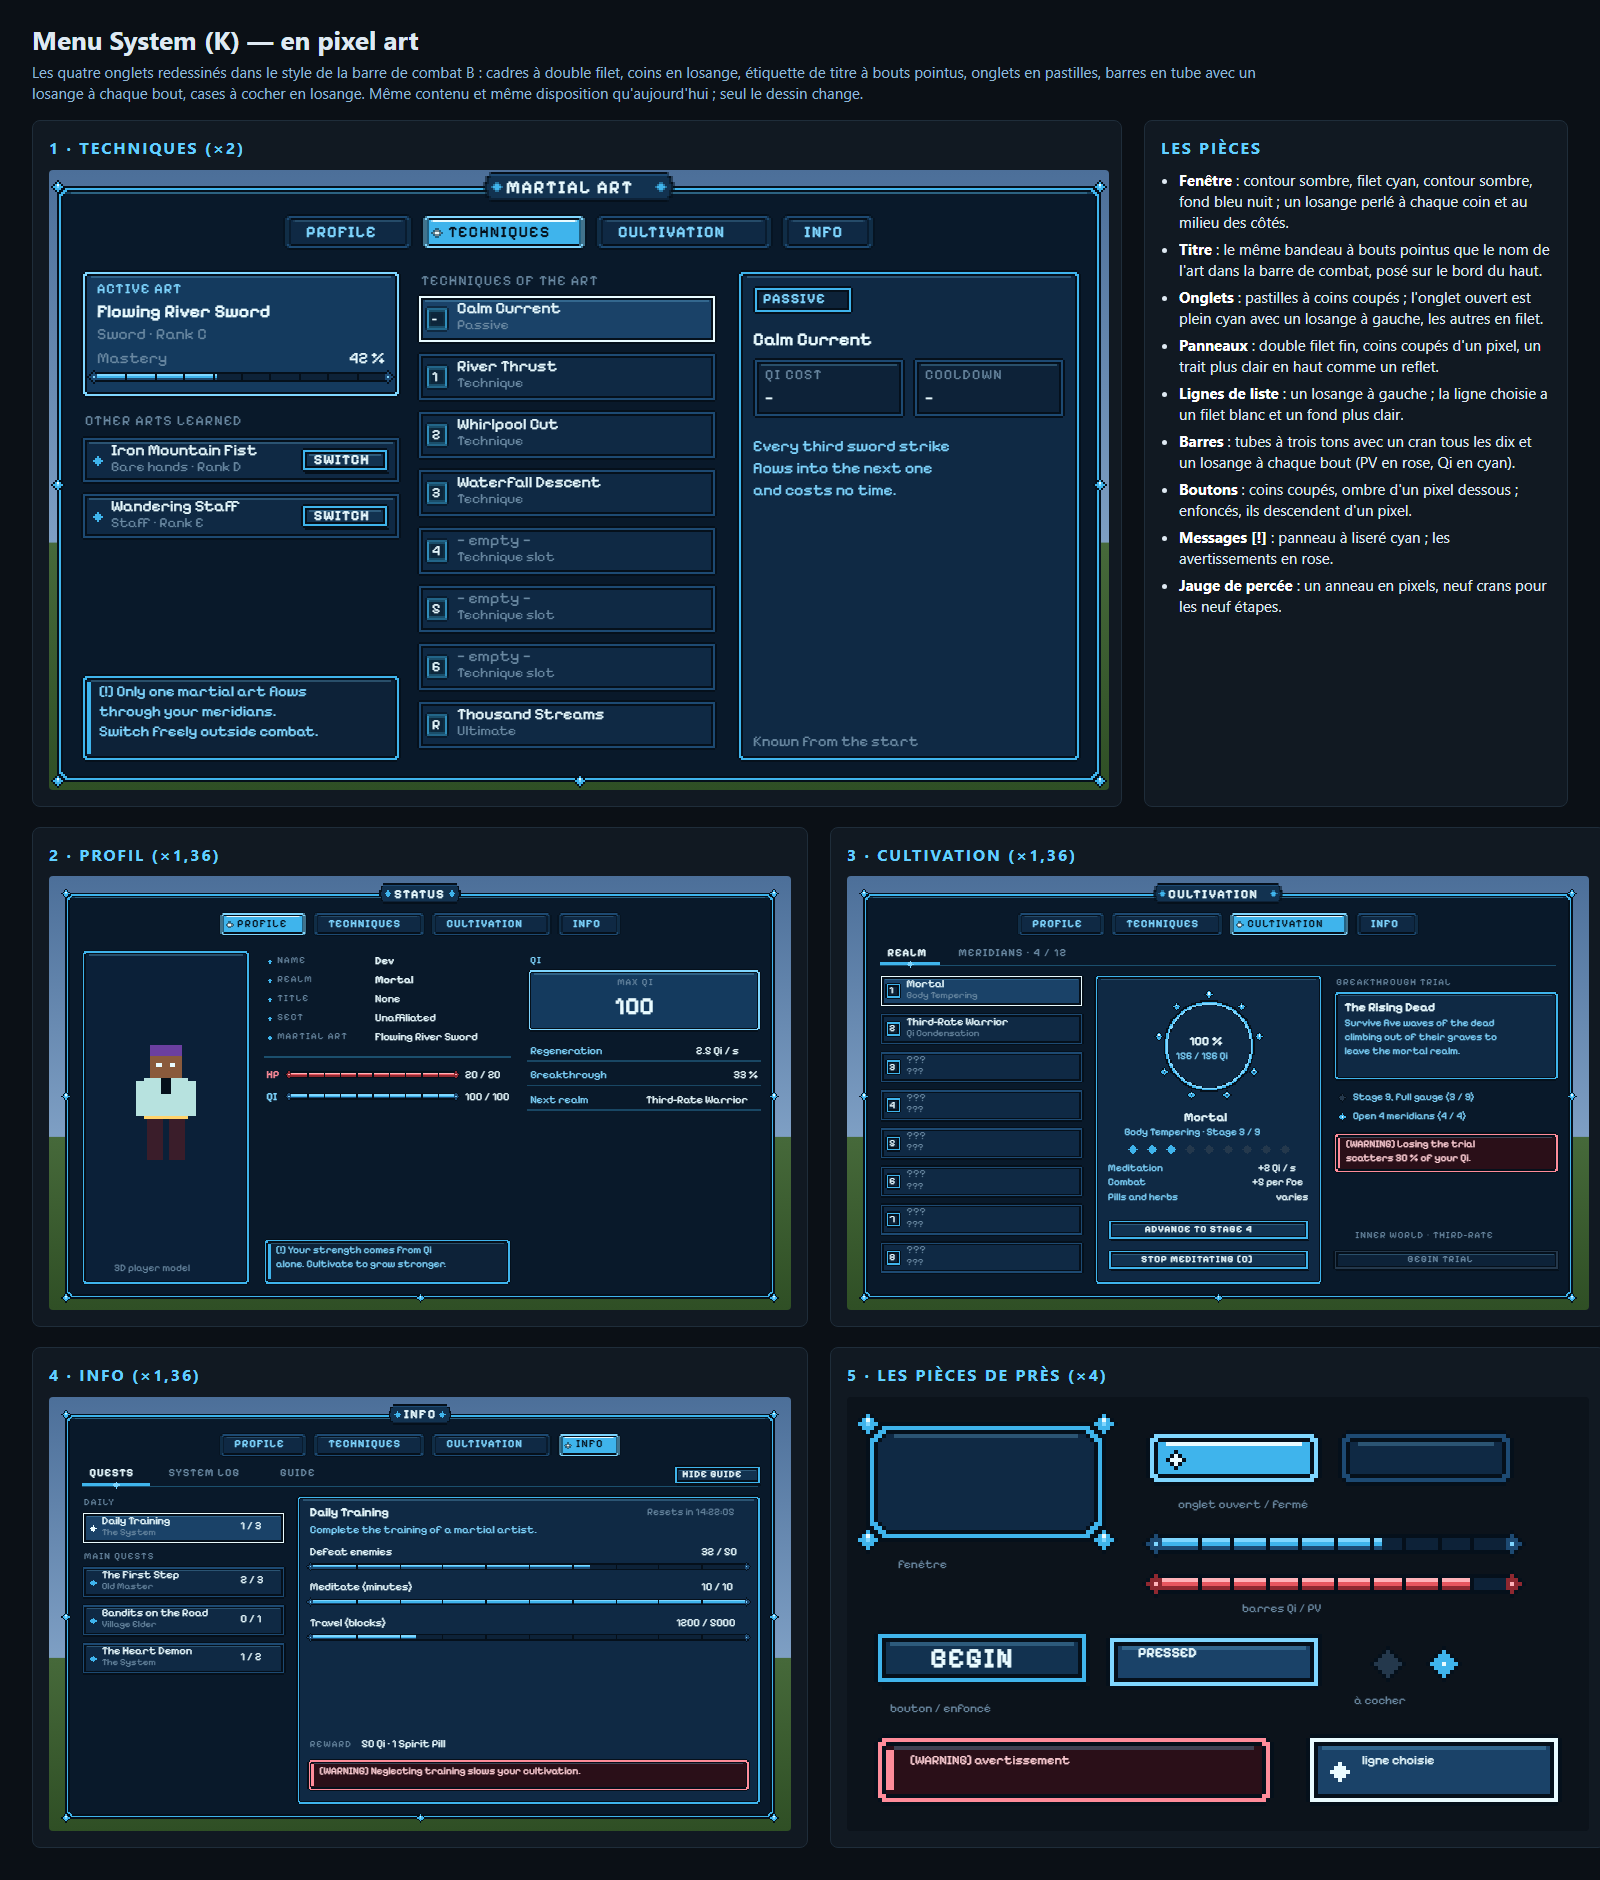
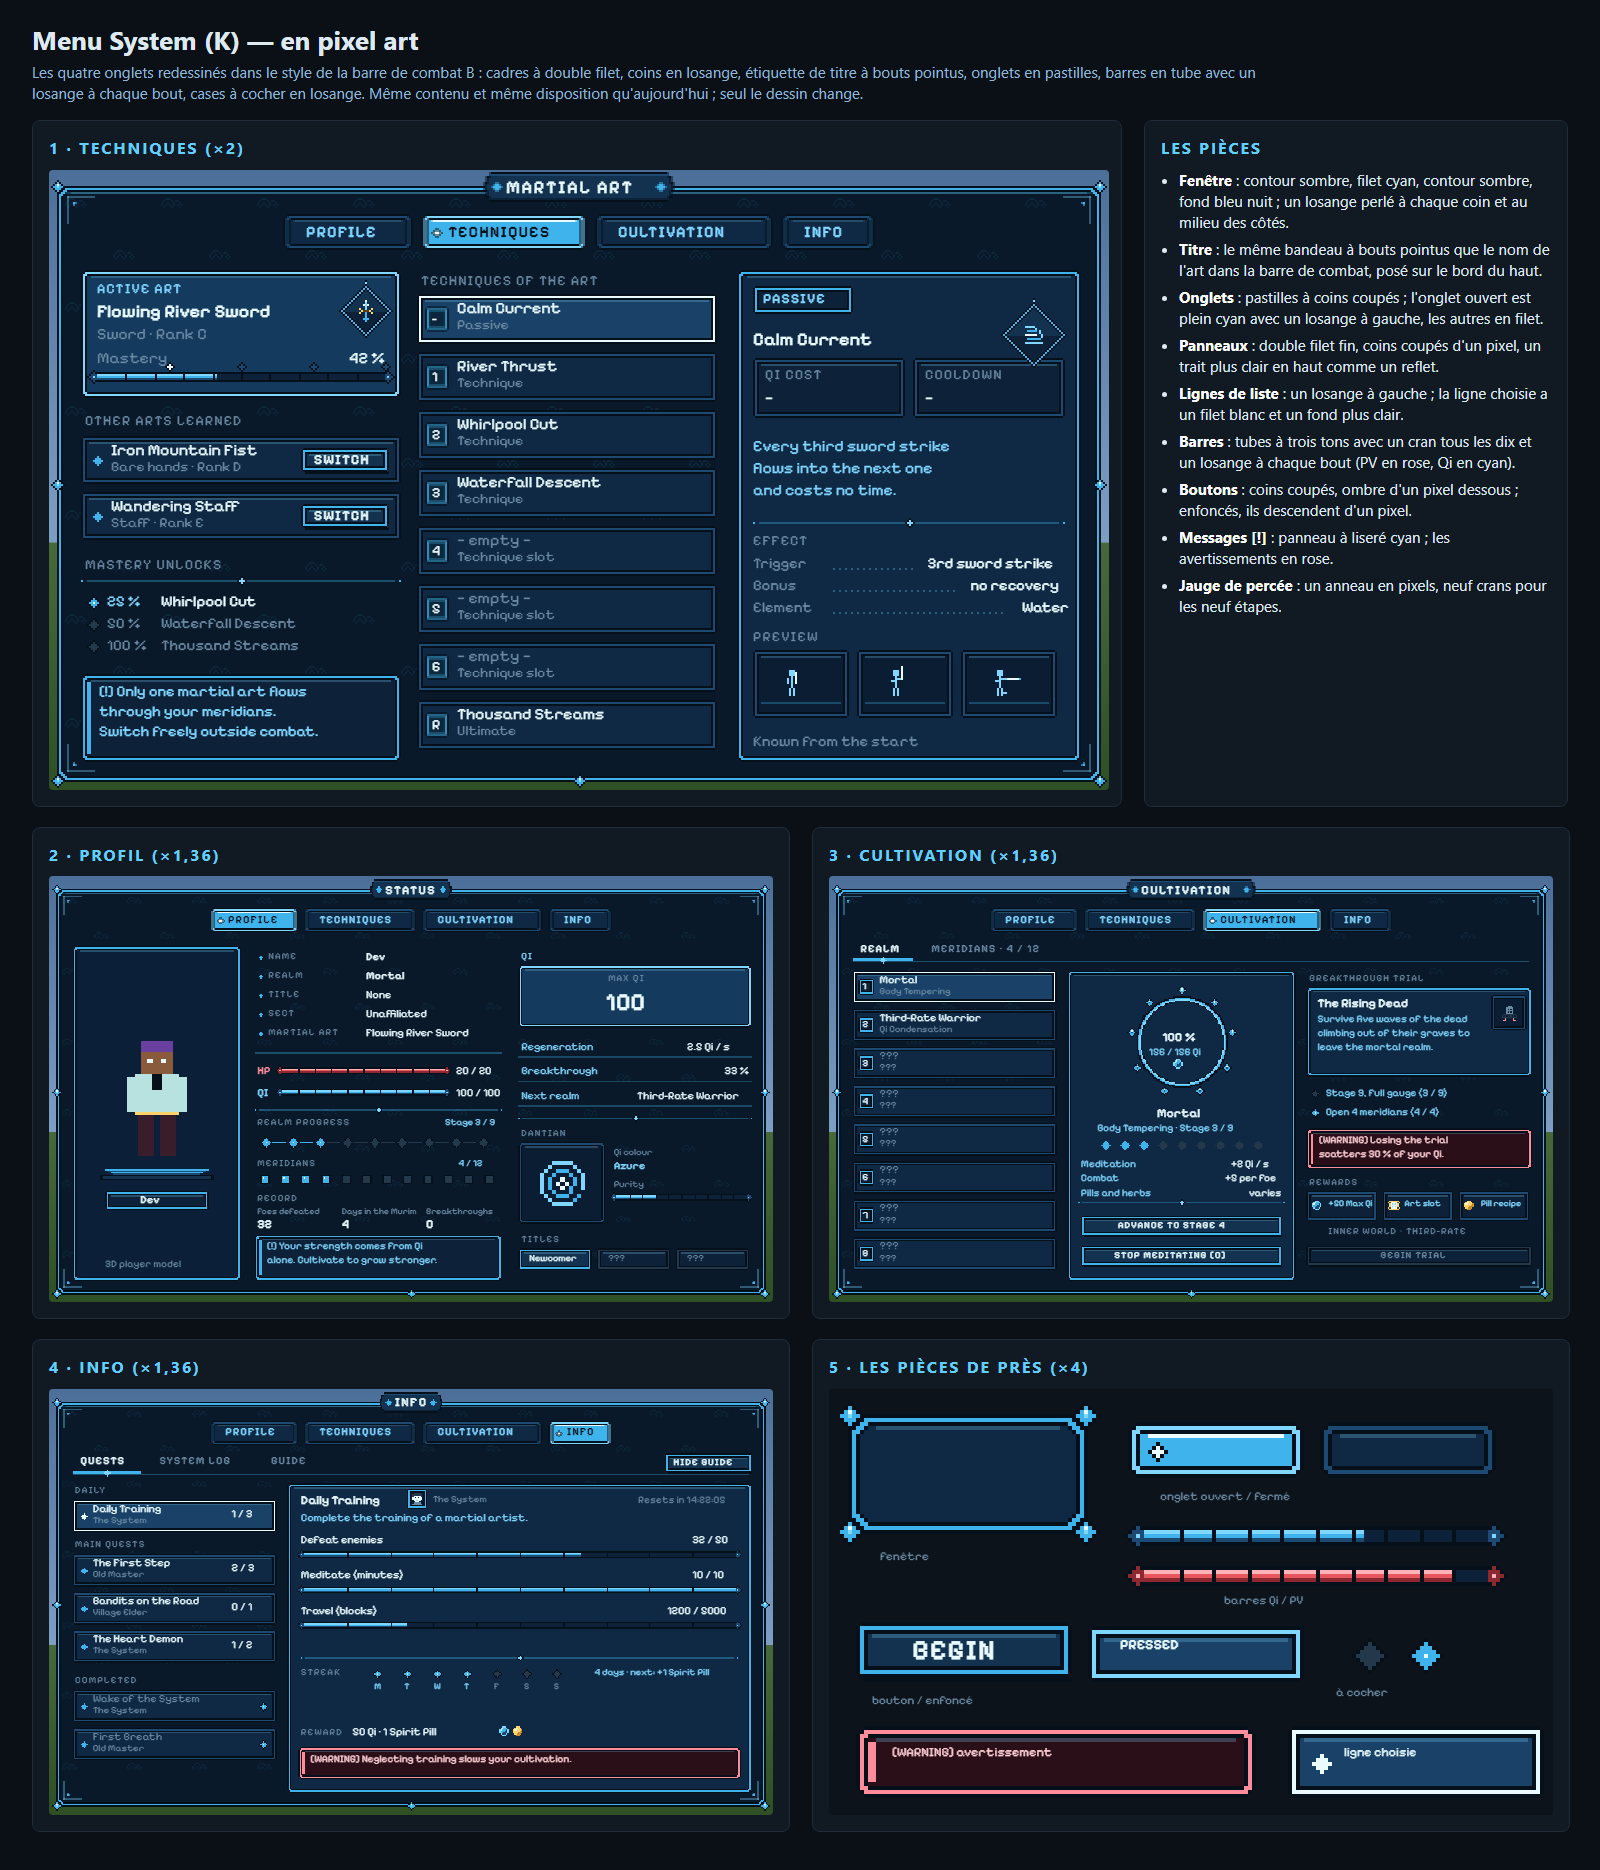
Fill the pixel-art System menu board: clouds, filigree, crests, mastery unlocks, effects, preview, realm ladder, dantian, rewards, streak

diff --git a/docs/gui/boards/system-gui-pixel.html b/docs/gui/boards/system-gui-pixel.html
@@ -35,12 +35,12 @@ ul { margin: 0; padding-left: 18px; } li { margin: 0 0 6px; } b { color: #fff; }
 </div>
 
 <div class="row" style="grid-template-columns: 1fr 1fr">
-  <div class="card"><h2>2 · Profil (×1,36)</h2><div class="scene" id="profile" style="width:742px;height:434px"></div></div>
-  <div class="card"><h2>3 · Cultivation (×1,36)</h2><div class="scene" id="cultivation" style="width:742px;height:434px"></div></div>
+  <div class="card"><h2>2 · Profil (×1,36)</h2><div class="scene" id="profile" style="width:724px;height:426px"></div></div>
+  <div class="card"><h2>3 · Cultivation (×1,36)</h2><div class="scene" id="cultivation" style="width:724px;height:426px"></div></div>
 </div>
 <div class="row" style="grid-template-columns: 1fr 1fr">
-  <div class="card"><h2>4 · Info (×1,36)</h2><div class="scene" id="info" style="width:742px;height:434px"></div></div>
-  <div class="card"><h2>5 · Les pièces de près (×4)</h2><div class="scene" id="parts" style="width:742px;height:434px;background:#0c131b"></div></div>
+  <div class="card"><h2>4 · Info (×1,36)</h2><div class="scene" id="info" style="width:724px;height:426px"></div></div>
+  <div class="card"><h2>5 · Les pièces de près (×4)</h2><div class="scene" id="parts" style="width:724px;height:426px;background:#0c131b"></div></div>
 </div>
 
 <script>
@@ -79,8 +79,13 @@ function frame(g, x, y, w, h, o = {}) {
 function windowFrame(page, title) {
   const {g, T} = page;
   frame(g, 4, 8, W - 8, H - 12, {cut: 4, fill: 'rgba(10,26,44,.94)'});
-  // Inner second line, faint.
+  // Inner second line, faint; auspicious clouds in the background; filigree in the corners.
   cutRect(g, 7, 11, W - 14, 1, 0, 'rgba(63,180,236,.25)');
+  clouds(g, 8, 14, W - 16, H - 22);
+  for (const [x, y, sx, sy] of [[9, 13, 1, 1], [W - 10, 13, -1, 1], [9, H - 10, 1, -1], [W - 10, H - 10, -1, -1]]) {
+    for (let k = 0; k < 14; k++) { px(g, x + k * sx, y, 'rgba(127,214,255,.35)'); px(g, x, y + k * sy, 'rgba(127,214,255,.35)'); }
+    px(g, x + 3 * sx, y + 3 * sy, P.c); px(g, x + 4 * sx, y + 3 * sy, 'rgba(63,180,236,.6)'); px(g, x + 3 * sx, y + 4 * sy, 'rgba(63,180,236,.6)');
+  }
   for (const [x, y] of [[4, 8], [W - 5, 8], [4, H - 5], [W - 5, H - 5], [W / 2, H - 5], [4, H / 2 + 2], [W - 5, H / 2 + 2]]) pearl(g, x, y);
   // Title banner.
   const tw = title.length * 7 + 18, tx = (W - tw) / 2;
@@ -145,6 +150,51 @@ function subTabs(page, x, y, names, active, wTotal) {
   px(g, x, y + 13, 'rgba(63,180,236,.35)', wTotal, 1);
 }
 
+// Faint cloud scrolls tiled behind the content.
+const CLOUD = ['..xxx......', '.x...x.xx..', 'x..x..x..x.', 'x.x.x.x.x.x', '.x...x...x.'];
+function clouds(g, x, y, w, h) {
+  for (let ty = 0; ty < h - 5; ty += 26) for (let tx = (ty / 26 % 2) * 24; tx < w - 11; tx += 48) {
+    CLOUD.forEach((r, j) => [...r].forEach((c, i) => { if (c === 'x') px(g, x + tx + i, y + ty + j, 'rgba(63,180,236,.07)'); }));
+  }
+}
+// Sprites in palette letters; scale s.
+const SPR = {
+  crest: ['.....w.....', '.....l.....', '....wlw....', '.....l.....', '..y..l..y..', '...yGGGy...', '..y..c..y..', '.....c.....', '.....c.....', '....ccc....', '.....c.....'],
+  thrust: ['..........w', '.........wl', '........wl.', '.......wl..', '......wl...', '..c..wl....', '...cwl.....', '...ywc.....', '..yGy.c....', '.yG..c.....', 'G..........'],
+  calm: ['...........', '.lllll.....', '......l....', '..ccccc.l..', '........l..', '.wwwwww..l.', '.........l.', '..ccccccc..', '...........', '.lllllllll.', '...........'],
+  orb: ['..lll..', '.lwccl.', 'lwcccml', 'lcccmml', 'lccmmml', '.lmmml.', '..lll..'],
+  pill: ['..yyy..', '.yYwyy.', 'yYwyyyg', 'yyyyygg', 'yyyyggg', '.yyggg.', '..ggg..'],
+  scroll: ['.yyyyyyy.', 'yGwwwwwGy', '.ywlwlwy.', '.ywwwwwy.', '.ywlwlwy.', 'yGwwwwwGy', '.yyyyyyy.'],
+  grave: ['....sss....', '...sssss...', '...s.s.s...', '...sssss...', '...s.s.s...', '...sssss...', '.kkkkkkkkk.', 'k.k.k.k.k.k', 'kkkkkkkkkkk', '..r.....r..', '.rr.....rr.'],
+  swirl: ['...lllll...', '..l.....l..', '.l..ccc..l.', 'l..c...c..l', 'l.c..w..c.l', 'l.c.w.w.c.l', 'l.c..w.c..l', 'l..c...c...', '.l..ccc..c.', '..l.....c..', '...lllll...'],
+  face: ['..kkkkk..', '.kkkkkkk.', '.kwwwwwk.', '.ww.w.ww.', '.wwwwwww.', '..wwlww..', '...www...', '..sssss..', '.sssssss.'],
+};
+const COL = {o: P.o, d: P.d, n: P.n, m: P.m, c: P.c, l: P.l, w: P.w, y: P.y, Y: '#fff1b8', G: '#5a3d10', g: P.g, s: P.s, k: P.k, r: P.r};
+function spr(g, x, y, key, s = 1, dim) {
+  SPR[key].forEach((r, j) => [...r].forEach((c, i) => { if (c !== '.') px(g, x + i * s, y + j * s, dim ? P.k : COL[c], s, s); }));
+}
+function sealBig(g, cx, cy, r, key, s = 1) {
+  diamond(g, cx, cy, r, P.o); diamond(g, cx, cy, r - 1, P.c); diamond(g, cx, cy, r - 2, P.o); diamond(g, cx, cy, r - 3, P.n);
+  for (let dy = 1; dy <= r - 3; dy++) { const w = r - 3 - dy; px(g, cx - w, cy + dy, P.d, 2 * w + 1, 1); }
+  px(g, cx, cy - r - 2, P.o, 1, 3); px(g, cx, cy - r - 1, P.l);
+  const n = SPR[key][0].length * s; spr(g, cx - Math.floor(n / 2), cy - Math.floor(SPR[key].length * s / 2), key, s);
+}
+// A divider: a faint line with a diamond in the middle and dots at the ends.
+function divider(g, x, y, w) {
+  px(g, x + 3, y, 'rgba(63,180,236,.35)', w - 6, 1); px(g, x, y, P.c); px(g, x + w - 1, y, P.c);
+  diamond(g, x + w / 2, y, 2, P.o); diamond(g, x + w / 2, y, 1, P.l);
+}
+function check(g, x, y, on) { diamond(g, x, y, 3, P.o); diamond(g, x, y, 2, on ? P.c : P.k); if (on) px(g, x, y, P.w); }
+// A pixel figure in a pose: 0 stand, 1 draw, 2 thrust.
+function pose(g, x, y, k) {
+  px(g, x + 4, y, P.l, 3, 3);
+  px(g, x + 5, y + 3, P.l, 1, 6);
+  if (k === 0) { px(g, x + 3, y + 4, P.l, 1, 3); px(g, x + 7, y + 4, P.l, 1, 3); px(g, x + 7, y + 1, P.w, 1, 6); }
+  if (k === 1) { px(g, x + 6, y + 4, P.l, 3, 1); px(g, x + 8, y - 2, P.w, 1, 7); px(g, x + 3, y + 5, P.l, 2, 1); }
+  if (k === 2) { px(g, x + 6, y + 4, P.l, 3, 1); px(g, x + 9, y + 4, P.w, 6, 1); px(g, x + 15, y + 4, P.c); px(g, x + 3, y + 5, P.l, 2, 1); }
+  px(g, x + 4, y + 9, P.l, 1, 4); px(g, x + 6, y + 9, P.l, 1, 4); if (k === 2) px(g, x + 7, y + 11, P.l, 2, 1);
+}
+
 // 1 · Techniques.
 function drawTechniques(id, scale) {
   const p = makePage(id, scale), {g, T} = p;
@@ -172,6 +222,23 @@ function drawTechniques(id, scale) {
   frame(g, 432, 94, 76, 30, {cut: 1, line: P.m, fill: P.d}); label(p, 438, 99, 'COOLDOWN'); T(438, 110, '—', 8, P.w);
   ['Every third sword strike', 'flows into the next one', 'and costs no time.'].forEach((l, i) => T(352, 134 + i * 11, l, 8, P.l));
   T(352, 282, 'Known from the start', 7.5, P.s);
+  // Details: the art's crest, mastery milestones, unlocks, the technique's seal, effect lines and a preview.
+  sealBig(g, 158, 70, 13, 'crest');
+  [.25, .5, .75, 1].forEach((f, i) => { const mx = 24 + Math.round(144 * f); diamond(g, mx, 98, 2, P.o); diamond(g, mx, 98, 1, f <= .42 ? P.w : P.m); });
+  label(p, 18, 194, 'MASTERY UNLOCKS');
+  divider(g, 16, 205, 160);
+  [['25 %', 'Whirlpool Cut', true], ['50 %', 'Waterfall Descent', false], ['100 %', 'Thousand Streams', false]].forEach(([a, b, on], i) => {
+    check(g, 22, 216 + i * 11, on); T(29, 212 + i * 11, a, 7.5, on ? P.l : P.s); T(56, 212 + i * 11, b, 7.5, on ? P.w : P.s);
+  });
+  sealBig(g, 492, 82, 16, 'calm');
+  divider(g, 352, 176, 156);
+  label(p, 352, 182, 'EFFECT');
+  [['Trigger', '3rd sword strike'], ['Bonus', 'no recovery'], ['Element', 'Water']].forEach(([a, b], i) => {
+    T(352, 193 + i * 11, a, 7.5, P.s); for (let d = 392; d < 500 - b.length * 4.3; d += 3) px(g, d, 199 + i * 11, 'rgba(127,214,255,.3)'); T(508 - b.length * 4.3, 193 + i * 11, b, 7.5, P.w);
+  });
+  label(p, 352, 230, 'PREVIEW');
+  [0, 1, 2].forEach(k => { frame(g, 352 + k * 52, 240, 48, 34, {cut: 1, line: P.m, fill: '#0a1d33'}); px(g, 356 + k * 52, 266, 'rgba(63,180,236,.3)', 40, 1); pose(g, 366 + k * 52, 250, k); });
+  T(352 + 0, 276, '', 7, P.s);
 }
 // 2 · Profile.
 function drawProfile(id, scale) {
@@ -196,6 +263,24 @@ function drawProfile(id, scale) {
   [['Regeneration', '2.5 Qi / s'], ['Breakthrough', '33 %'], ['Next realm', 'Third-Rate Warrior']].forEach(([k, v], i) => {
     T(346, 120 + i * 18, k, 8, P.l); T(514 - v.length * 4.6, 120 + i * 18, v, 8, P.w); px(g, 344, 131 + i * 18, 'rgba(63,180,236,.3)', 172, 1);
   });
+  // Details: a pedestal and name plate under the model, realm ladder, meridians, record, dantian, titles.
+  for (let k = 0; k < 4; k++) px(g, 40 + k * 2, 214 + k, k % 2 ? P.m : P.c, 76 - k * 4, 1);
+  px(g, 36, 218, P.o, 84, 4); px(g, 38, 219, P.n, 80, 2);
+  frame(g, 40, 230, 76, 14, {cut: 1, line: P.c, fill: P.d}); T(66, 233, 'Dev', 8, P.w, 'font-weight:600');
+  divider(g, 150, 170, 182);
+  label(p, 152, 176, 'REALM PROGRESS'); T(290, 176, 'Stage 3 / 9', 7, P.l);
+  for (let k = 0; k < 9; k++) { diamond(g, 158 + k * 20, 194, 4, P.o); diamond(g, 158 + k * 20, 194, 3, k < 3 ? P.c : P.k); if (k < 3) px(g, 158 + k * 20, 194, P.w); if (k < 8) px(g, 163 + k * 20, 194, k < 2 ? P.c : P.k, 10, 1); }
+  label(p, 152, 206, 'MERIDIANS'); T(300, 206, '4 / 12', 7, P.l);
+  for (let k = 0; k < 12; k++) { px(g, 154 + k * 15, 218, P.o, 7, 7); px(g, 155 + k * 15, 219, k < 4 ? P.c : P.k, 5, 5); if (k < 4) px(g, 156 + k * 15, 220, P.w); }
+  label(p, 152, 232, 'RECORD');
+  [['Foes defeated', '32'], ['Days in the Murim', '4'], ['Breakthroughs', '0']].forEach(([a, b], i) => { T(152 + i * 62, 242, a, 6.5, P.s); T(152 + i * 62, 250, b, 9, P.w, 'font-weight:600'); });
+  divider(g, 344, 176, 172);
+  label(p, 346, 184, 'DANTIAN');
+  frame(g, 344, 194, 64, 60, {cut: 2, line: P.m, fill: '#0a1d33'}); spr(g, 360, 208, 'swirl', 3);
+  T(414, 198, 'Qi colour', 7, P.s); T(414, 208, 'Azure', 8, P.l, 'font-weight:600');
+  T(414, 222, 'Purity', 7, P.s); tube(g, 414, 232, 100, .3, P.l, P.c, P.m);
+  label(p, 346, 262, 'TITLES');
+  [['Newcomer', true], ['???', false], ['???', false]].forEach(([a, on], i) => { frame(g, 344 + i * 58, 272, 54, 16, {cut: 1, line: on ? P.c : P.k, fill: on ? P.n : P.d}); T(352 + i * 58, 276, a, 7, on ? P.w : P.s); });
 }
 // 3 · Cultivation.
 function drawCultivation(id, scale) {
@@ -231,6 +316,14 @@ function drawCultivation(id, scale) {
   note(p, 350, 184, 166, 30, ['[WARNING] Losing the trial', 'scatters 30 % of your Qi.'], true);
   T(366, 256, 'INNER WORLD · THIRD-RATE', 7, P.s, 'letter-spacing:1px');
   button(p, 350, 270, 166, 15, 'BEGIN TRIAL', {dim: 1});
+  // Details: the trial's place, its rewards, a swirl in the ring.
+  frame(g, 486, 86, 26, 26, {cut: 1, line: P.m, fill: '#0a1d33', shine: false}); spr(g, 494, 94, 'grave', 1);
+  label(p, 352, 220, 'REWARDS');
+  [['orb', '+50 Max Qi'], ['scroll', 'Art slot'], ['pill', 'Pill recipe']].forEach(([k, n], i) => {
+    frame(g, 350 + i * 56, 230, 52, 22, {cut: 1, line: P.m, fill: P.d}); spr(g, 354 + i * 56, 237, k, 1); T(366 + i * 56, 236, n, 6.5, P.l);
+  });
+  spr(g, 252, 133, 'orb', 1);
+  divider(g, 182, 238, 152);
 }
 // 4 · Info.
 function drawInfo(id, scale) {
@@ -250,6 +343,18 @@ function drawInfo(id, scale) {
   });
   label(p, 184, 248, 'REWARD'); T(222, 247, '50 Qi · 1 Spirit Pill', 8, P.w);
   note(p, 182, 262, 326, 24, ['[WARNING] Neglecting training slows your cultivation.'], true);
+  // Details: the giver's portrait, a weekly streak, reward icons, finished quests.
+  frame(g, 262, 72, 15, 15, {cut: 1, line: P.c, fill: "#0a1d33", shine: false}); spr(g, 265, 75, "face", 1);
+  T(281, 77, "The System", 7, P.s);
+  divider(g, 184, 196, 322);
+  label(p, 184, 204, 'STREAK');
+  ['M', 'T', 'W', 'T', 'F', 'S', 'S'].forEach((d, i) => { check(g, 240 + i * 22, 208, i < 4); T(238 + i * 22, 214, d, 6.5, i < 4 ? P.l : P.s); });
+  T(400, 204, '4 days · next: +1 Spirit Pill', 7, P.l);
+  spr(g, 330, 247, 'orb', 1); spr(g, 340, 247, 'pill', 1);
+  label(p, 18, 210, 'COMPLETED');
+  [['Wake of the System', 'The System'], ['First Breath', 'Old Master']].forEach(([a, b], i) => {
+    rowItem(p, 16, 220 + i * 28, 150, 24, a, b, {dim: 1}); check(g, 156, 232 + i * 28, true);
+  });
 }
 drawTechniques('techniques', 2);
 drawProfile('profile', 1.36);
